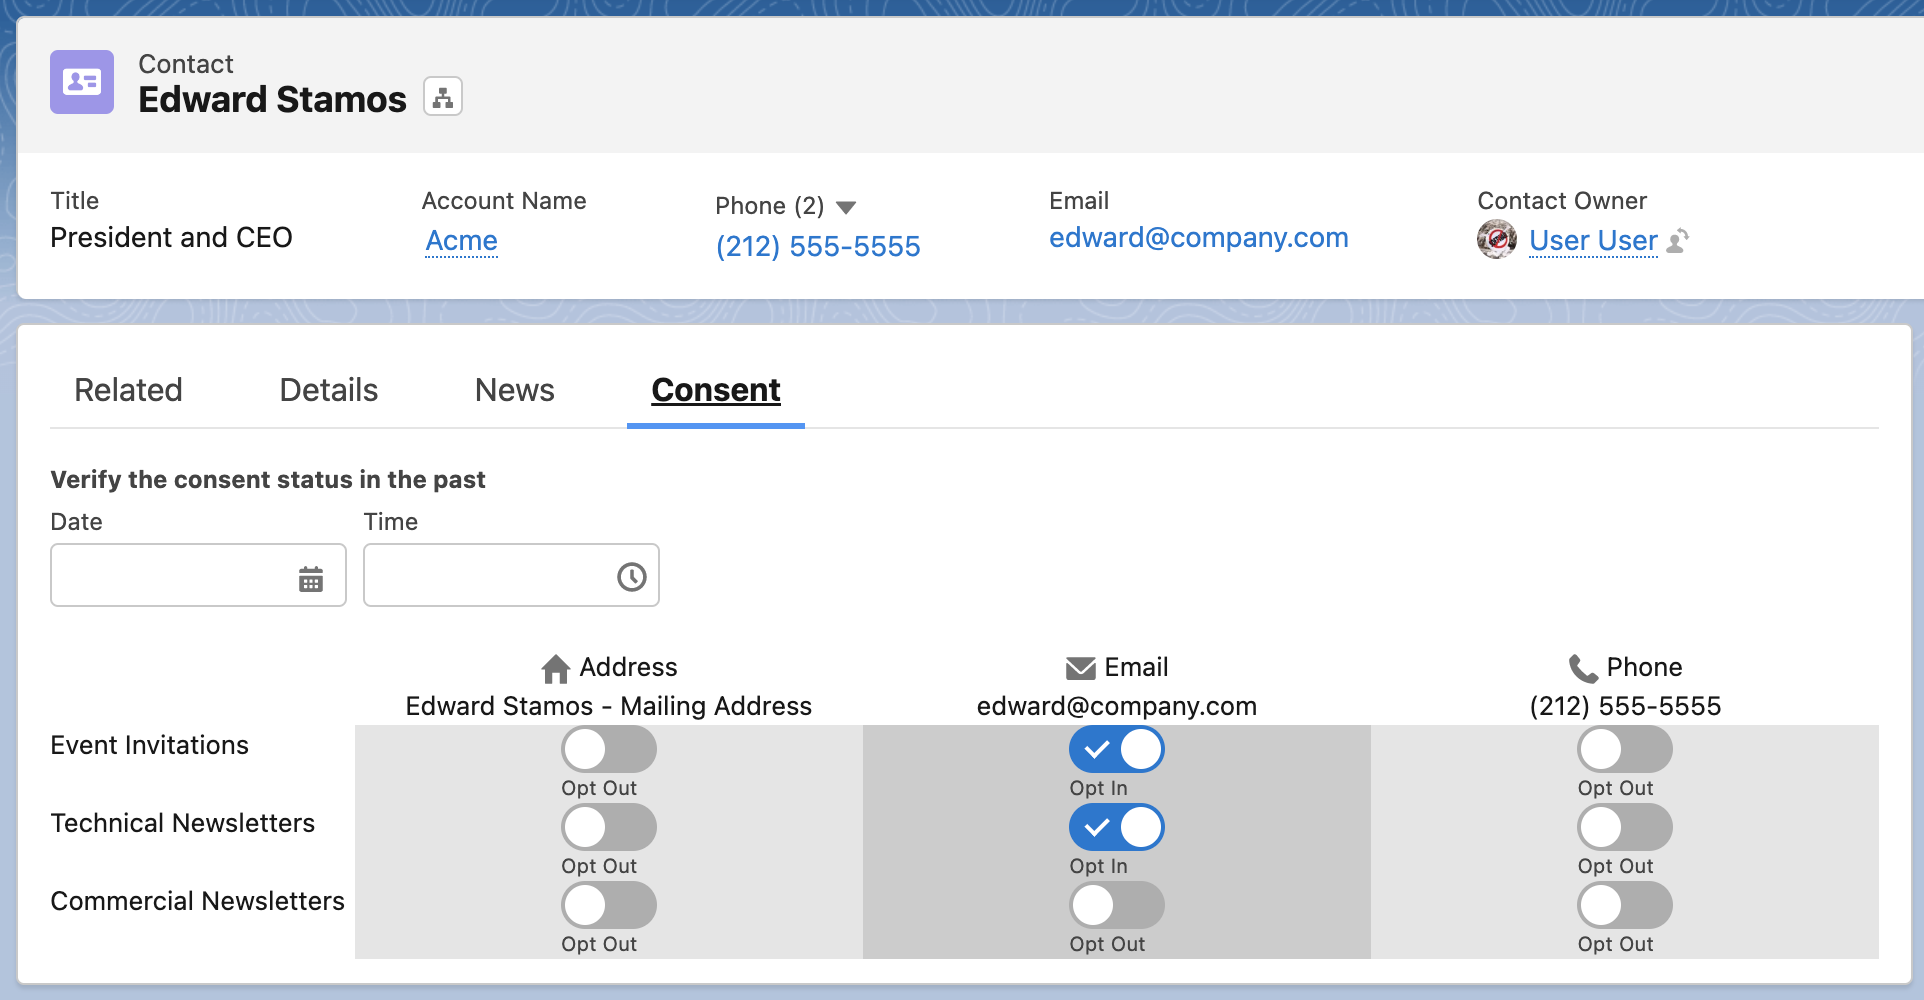
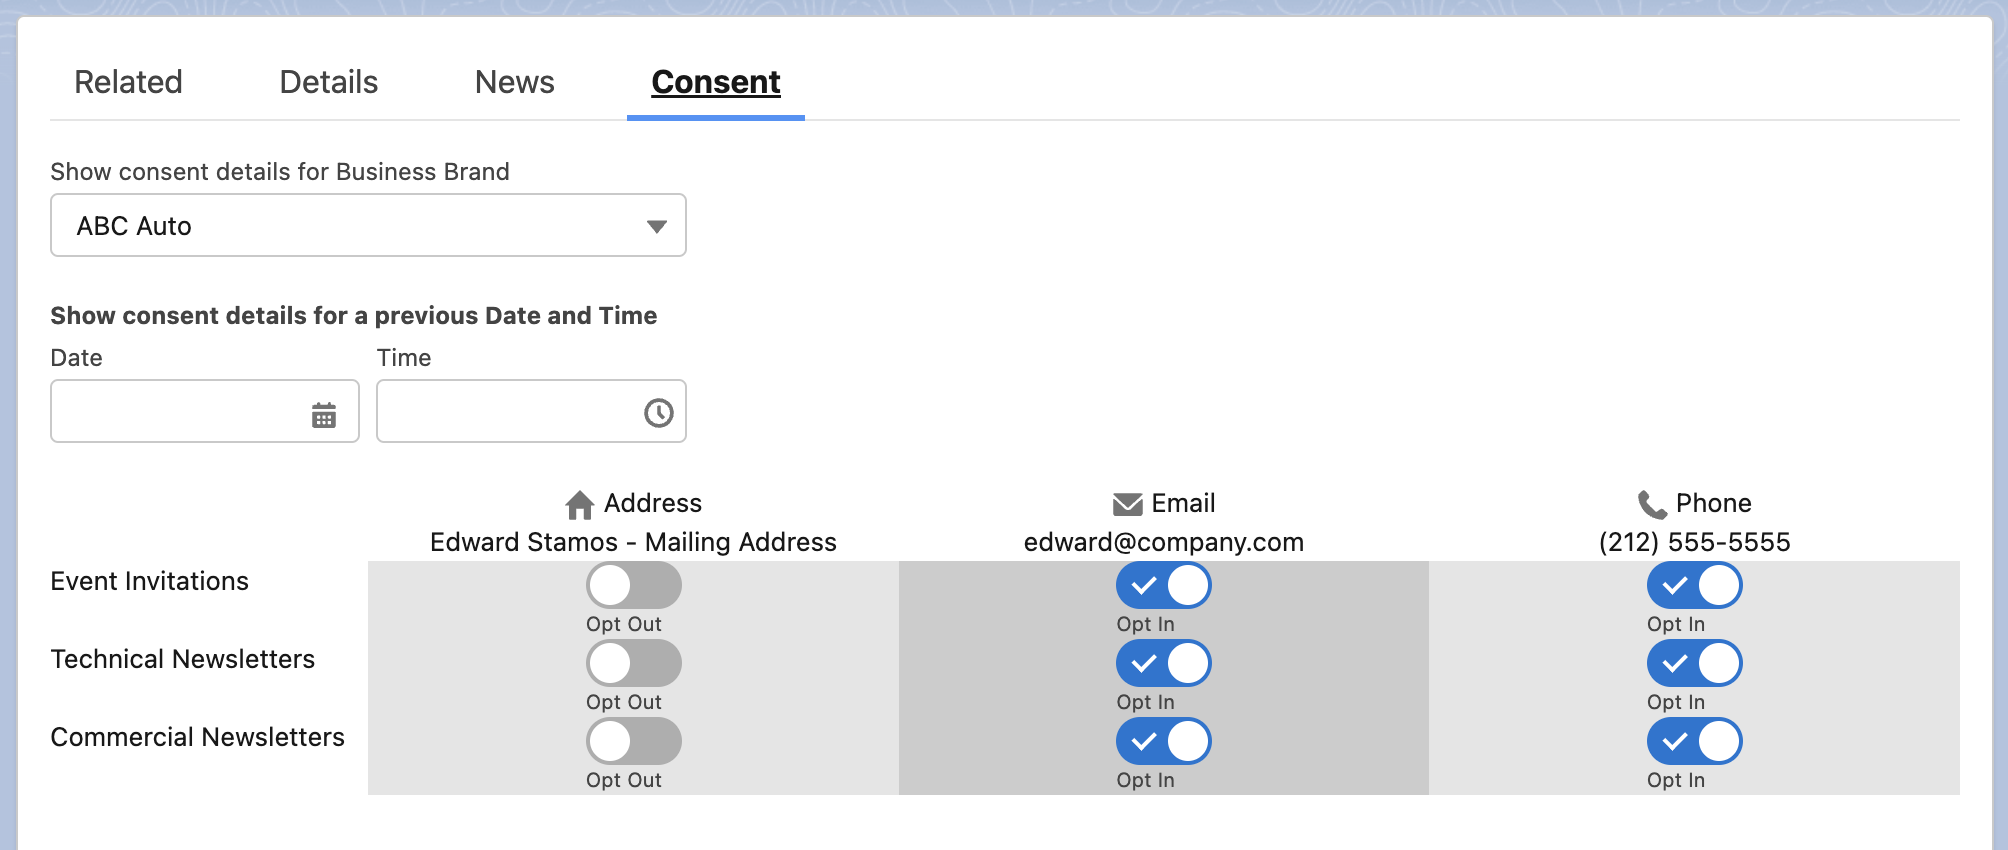
Update permission sets and doc

diff --git a/README.md b/README.md
@@ -88,6 +88,7 @@ Configure your Salesforce organization-wide sharing defaults (OWD) so that your 
 
 | Object                     | Recommended Internal Access | Recommended External Access | Default Internal Access | Default External Access  |
 | -------------------------- | --------------------------- | --------------------------- | ----------------------- | ------------------------ |
+| Business Brand             | Public Read Only            | Public Read Only            | Private                 | Private                  |
 | Data Use Legal Basis       | Public Read Only            | not applicable              | Private                 | not applicable (Private) |
 | Data Use Purpose           | Public Read Only            | Public Read Only            | Private                 | Private                  |
 | Individual                 | Private                     | Private                     | Public Read/Write       | Private                  |
@@ -109,16 +110,17 @@ The following table compares the access permissions with the defaults for Standa
 
 ### Consent Settings Internal Permission Set
 
-| Object                     | Object Permission | Standard User Profile |
-| -------------------------- | ----------------- | --------------------- |
-| Data Use Legal Basis       | CRED              | CRED                  |
-| Data Use Purpose           | CRED              | RED                   |
-| Individual                 | CRED              | CRED                  |
-| Contact Point Type Consent | CRED              | CRED                  |
-| Contact Point Email        | CRED              | CRED                  |
-| Contact Point Phone        | CRED              | CRED                  |
-| Contact Point Address      | CRED              | CRED                  |
-| Contact Point Consent      | CRED              | CRED                  |
+| Object                     | Permission Set | Standard User Profile |
+| -------------------------- | -------------- | --------------------- |
+| Business Brand             | CRED           | CRED                  |
+| Data Use Legal Basis       | CRED           | CRED                  |
+| Data Use Purpose           | CRED           | RED                   |
+| Individual                 | CRED           | CRED                  |
+| Contact Point Type Consent | CRED           | CRED                  |
+| Contact Point Email        | CRED           | CRED                  |
+| Contact Point Phone        | CRED           | CRED                  |
+| Contact Point Address      | CRED           | CRED                  |
+| Contact Point Consent      | CRED           | CRED                  |
 
 ## Permission Set for external users
 
@@ -127,16 +129,17 @@ The following table compares the access permissions with the defaults for Custom
 
 ### Consent Settings External Permission Set
 
-| Object                     | Object Permission | Customer Community User Object Permission | Customer Community User Default | External Identity User Object Permission | External Identity User Default |
-| -------------------------- | ----------------- | ----------------------------------------- | ------------------------------- | ---------------------------------------- | ------------------------------ |
-| Data Use Legal Basis       | No Access         | Object not available                      |                                 | Object not available                     |                                |
-| Data Use Purpose           | R                 | R                                         | No Access                       | R                                        | No Access                      |
-| Individual                 | CRE               | CRE                                       | No Access                       | CRE                                      | RE                             |
-| Contact Point Type Consent | CRE               | CRE                                       | No Access                       | CRE                                      | CRE                            |
-| Contact Point Email        | CRE               | CRE                                       | No Access                       | CRE                                      | CRE                            |
-| Contact Point Phone        | CRE               | CRE                                       | No Access                       | CRE                                      | CRE                            |
-| Contact Point Address      | CRE               | CRED                                      | No Access                       | CRE                                      | No Access                      |
-| Contact Point Consent      | CRE               | CRE                                       | No Access                       | CRE                                      | No Access                      |
+| Object                     | Permission Set | Customer Community User Object Permission | Customer Community User Default | External Identity User Object Permission | External Identity User Default |
+| -------------------------- | -------------- | ----------------------------------------- | ------------------------------- | ---------------------------------------- | ------------------------------ |
+| Business Brand             | R              |                                           |                                 |                                          |                                |
+| Data Use Legal Basis       | No Access      | Object not available                      |                                 | Object not available                     |                                |
+| Data Use Purpose           | R              | R                                         | No Access                       | R                                        | No Access                      |
+| Individual                 | CRE            | CRE                                       | No Access                       | CRE                                      | RE                             |
+| Contact Point Type Consent | CRE            | CRE                                       | No Access                       | CRE                                      | CRE                            |
+| Contact Point Email        | CRE            | CRE                                       | No Access                       | CRE                                      | CRE                            |
+| Contact Point Phone        | CRE            | CRE                                       | No Access                       | CRE                                      | CRE                            |
+| Contact Point Address      | CRE            | CRED                                      | No Access                       | CRE                                      | No Access                      |
+| Contact Point Consent      | CRE            | CRE                                       | No Access                       | CRE                                      | No Access                      |
 
 # Setup and Configuration Steps
 
